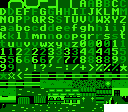
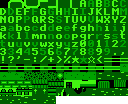
Exact Odyssey: one stagger panel (top left, the last target), HP bars under enemies, juggling (Strike hits launch a staggered enemy upside down, from flipped tiles in a per-enemy CHR bank), full heal after battle

diff --git a/games/exact-odyssey/gpu/src/art.rs b/games/exact-odyssey/gpu/src/art.rs
@@ -740,17 +740,19 @@ const EDGE_LEFT: &str = "
 
 /// Everything the picture processor needs, built from the art above.
 pub struct Art {
-    /// Background CHR banks: the field's, and the battle's. Each starts with
-    /// the same window tiles, so text indices match in both; the battle bank
-    /// swaps the field's terrain for big enemies, as NES RPGs swapped banks.
+    /// Background CHR banks: the field's, and one per enemy type for battles.
+    /// Each starts with the same window tiles (and battle banks the same cave
+    /// rock), so their indices match; a battle bank then holds its enemy and
+    /// an upside-down copy for juggling, as NES RPGs swapped banks per fight.
     pub bg: PatternTable,
-    pub bg_battle: PatternTable,
+    pub battle_banks: HashMap<&'static str, PatternTable>,
     pub spr: PatternTable,
     /// Background metatiles by map character (field bank, and the cave rock
     /// in the battle bank).
     pub metatiles: HashMap<char, Metatile>,
-    /// Enemies (battle bank): (width, height) in tiles and their tiles.
-    pub enemies: HashMap<&'static str, (usize, usize, Vec<u8>)>,
+    /// Enemies (each in its own bank): size in tiles, their tiles row by
+    /// row, and the upside-down tiles (each tile flipped, rows reversed).
+    pub enemies: HashMap<&'static str, Enemy>,
     pub sprites: HashMap<&'static str, Metasprite>,
     pub ui: Ui,
     /// Animated metatiles: frames by map character, swapped like CHR banks.
@@ -759,14 +761,19 @@ pub struct Art {
     pub digits: HashMap<char, u8>,
 }
 
+pub struct Enemy {
+    pub w: usize,
+    pub h: usize,
+    pub tiles: Vec<u8>,
+    pub flipped: Vec<u8>,
+}
+
 /// Window and label tiles, at the same index in every background bank.
 pub struct Ui {
     /// Glyphs on window blue: white, and yellow for the characters yellow text uses.
     pub glyphs: HashMap<char, u8>,
     pub yellow: HashMap<char, u8>,
-    /// Glyphs and gauges on the black backdrop, for labels under enemies.
-    pub clear: HashMap<char, u8>,
-    pub clear_yellow: HashMap<char, u8>,
+    /// Gauges on the black backdrop, for HP bars under enemies.
     pub clear_bars: [u8; 9],
     pub border: Border,
     /// ATB gauge tiles on window blue, 0–8 pixels filled.
@@ -844,17 +851,11 @@ fn ui(bg: &mut PatternTable) -> Ui {
     };
     let mut glyphs = HashMap::new();
     let mut yellow = HashMap::new();
-    let mut clear = HashMap::new();
-    let mut clear_yellow = HashMap::new();
-    let yellow_chars: Vec<char> = "StrikeBlastMendGuardHoundDroneVictoryAttackSlashFireIceCureHealProvokeSteelPotion*0123456789".chars().collect();
+    let yellow_chars: Vec<char> = "StrikeBlastMendGuardHoundDroneVictoryAttackSlashFireIceCureHealProvokeSteelPotion*%0123456789".chars().collect();
     for (ch, rows) in FONT {
         glyphs.insert(*ch, bg.add(glyph_tile(rows, 3, 1)));
         if yellow_chars.contains(ch) {
             yellow.insert(*ch, bg.add(glyph_tile(rows, 2, 1)));
-        }
-        if ch.is_ascii_digit() || *ch == '%' || *ch == ' ' {
-            clear.insert(*ch, bg.add(glyph_tile(rows, 3, 0)));
-            clear_yellow.insert(*ch, bg.add(glyph_tile(rows, 2, 0)));
         }
     }
     let gauge = |n: usize, empty: u8| -> Tile {
@@ -874,17 +875,13 @@ fn ui(bg: &mut PatternTable) -> Ui {
         bars[n] = bg.add(gauge(n, 1));
         clear_bars[n] = bg.add(gauge(n, 0));
     }
-    Ui { glyphs, yellow, clear, clear_yellow, clear_bars, border, bars }
+    Ui { glyphs, yellow, clear_bars, border, bars }
 }
 
 pub fn build() -> Art {
     let mut bg = PatternTable::default();
-    let mut bg_battle = PatternTable::default();
     let mut spr = PatternTable::default();
     let ui_tiles = ui(&mut bg);
-    let battle_ui = ui(&mut bg_battle);
-    assert_eq!(battle_ui.border.fill, ui_tiles.border.fill, "both banks share the window tiles");
-    assert_eq!(battle_ui.clear_bars, ui_tiles.clear_bars);
 
     let mut metatiles = HashMap::new();
     for (ch, art, pal) in [
@@ -904,16 +901,33 @@ pub fn build() -> Art {
     ] {
         metatiles.insert(ch, metatile(&mut bg, art, pal));
     }
-    for (ch, art, pal) in [('k', ROCK, 0), ('K', SHARD, 0)] {
-        metatiles.insert(ch, metatile(&mut bg_battle, art, pal));
-    }
 
-    // Enemies: 64×64, the 32×32 art doubled with Scale2x.
+    // A battle bank per enemy type: the window tiles, the cave rock, then the
+    // enemy (64×64, its 32×32 art doubled with Scale2x) and upside down.
+    let mut battle_banks = HashMap::new();
     let mut enemies = HashMap::new();
     for (name, art) in [("drone", DRONE), ("hound", HOUND)] {
+        let mut bank = PatternTable::default();
+        let bank_ui = ui(&mut bank);
+        assert_eq!(bank_ui.border.fill, ui_tiles.border.fill, "every bank shares the window tiles");
+        assert_eq!(bank_ui.clear_bars, ui_tiles.clear_bars);
+        for (ch, rock, pal) in [('k', ROCK, 0), ('K', SHARD, 0)] {
+            let m = metatile(&mut bank, rock, pal);
+            if let Some(prev) = metatiles.get(&ch) {
+                assert_eq!(prev.tiles, m.tiles, "every battle bank has the rock at the same place");
+            }
+            metatiles.insert(ch, m);
+        }
         let (w, h, tiles) = parse_art(&scale2x(art));
-        let ids = tiles.into_iter().map(|t| bg_battle.add(t)).collect();
-        enemies.insert(name, (w, h, ids));
+        let ids: Vec<u8> = tiles.iter().map(|t| bank.add(*t)).collect();
+        let mut flipped = Vec::with_capacity(ids.len());
+        for row in (0..h).rev() {
+            for col in 0..w {
+                flipped.push(bank.add(tiles[row * w + col].flipped()));
+            }
+        }
+        enemies.insert(name, Enemy { w, h, tiles: ids, flipped });
+        battle_banks.insert(name, bank);
     }
 
     let mut sprites = HashMap::new();
@@ -958,7 +972,7 @@ pub fn build() -> Art {
         .collect();
     frames.insert('~', water_frames);
 
-    Art { bg, bg_battle, spr, metatiles, enemies, sprites, ui: ui_tiles, frames, digits }
+    Art { bg, battle_banks, spr, metatiles, enemies, sprites, ui: ui_tiles, frames, digits }
 }
 
 // ── Maps ──
@@ -1003,7 +1017,9 @@ mod tests {
     fn the_art_fits_the_tables() {
         let art = build();
         assert!(art.bg.tiles.len() <= 256, "bg tiles: {}", art.bg.tiles.len());
-        assert!(art.bg_battle.tiles.len() <= 256, "battle bg tiles: {}", art.bg_battle.tiles.len());
+        for (name, bank) in &art.battle_banks {
+            assert!(bank.tiles.len() <= 256, "{name} bank: {}", bank.tiles.len());
+        }
         assert!(art.spr.tiles.len() <= 256, "sprite tiles: {}", art.spr.tiles.len());
         for row in FIELD_MAP {
             assert_eq!(row.chars().count(), 32, "{row}");
@@ -1011,6 +1027,10 @@ mod tests {
                 assert!(art.metatiles.contains_key(&ch), "no metatile `{ch}`");
             }
         }
-        println!("field bank {} tiles, battle bank {} tiles, sprites {} tiles", art.bg.tiles.len(), art.bg_battle.tiles.len(), art.spr.tiles.len());
+        for (name, bank) in &art.battle_banks {
+            println!("{name} bank {} tiles", bank.tiles.len());
+        }
+        println!("field bank {} tiles, sprites {} tiles", art.bg.tiles.len(), art.spr.tiles.len());
     }
 }
+

diff --git a/games/exact-odyssey/gpu/src/lib.rs b/games/exact-odyssey/gpu/src/lib.rs
@@ -12,10 +12,11 @@
 //! 5. windows: `x,y,w,h[,spacing]|line|line` joined by `^`, in tiles; a
 //!    spacing of 2 puts a blank row between lines. In lines, `~` and a digit
 //!    0–8 is a gauge tile filled that many pixels (ATB and stagger gauges),
-//!    and text inside `{` `}` is yellow. An entry `@x,y|text` is a label with
-//!    no window, on the backdrop (digits, `%`, gauges): stagger bars.
-//! 6. enemies: `name:tx:ty:fx` joined by `;`. fx 0 is normal, 1 a hit flash,
-//!    2–5 a defeat dissolving top-down, a tile row a step.
+//!    and text inside `{` `}` is yellow. An entry `@x,y|~n~n…` is a gauge
+//!    with no window, on the backdrop: the HP bars under enemies.
+//! 6. enemies: `name:tx:ty:fx` joined by `;`, all one type (a battle uses
+//!    that type's CHR bank). fx 0 is normal, 1 a hit flash, 2–5 a defeat
+//!    dissolving top-down, a tile row a step, 7 juggled: upside down, 16 px up.
 //! 7. fade: 0 (full colour) to 4 (black), the NES palette fade.
 
 pub mod art;
@@ -47,6 +48,8 @@ fn art() -> &'static Art {
 #[derive(Default)]
 struct Spec {
     battle: bool,
+    /// The battle's CHR bank: its enemy type.
+    bank: String,
     scroll_x: i32,
     scroll_y: i32,
     sprites: String,
@@ -100,16 +103,12 @@ fn parse_windows(spec: &str) -> Vec<Option<Cell>> {
             let at: Vec<i32> = parts.next().unwrap_or("").split(',').filter_map(|v| v.trim().parse().ok()).collect();
             let [x, y] = at[..] else { continue };
             let mut chars = parts.next().unwrap_or("").chars();
-            let (mut col, mut gold) = (0, false);
+            let mut col = 0;
             while let Some(ch) = chars.next() {
-                if ch == '{' || ch == '}' {
-                    gold = ch == '{';
-                    continue;
-                }
                 let tile = if ch == '~' {
                     ui.clear_bars[chars.next().and_then(|d| d.to_digit(10)).unwrap_or(0).min(8) as usize]
                 } else {
-                    *(if gold { &ui.clear_yellow } else { &ui.clear }).get(&ch).unwrap_or(&0)
+                    0
                 };
                 put(x + col, y, tile);
                 col += 1;
@@ -190,16 +189,21 @@ fn parse_stage(spec: &str) -> Vec<Option<Cell>> {
         let f: Vec<&str> = item.split(':').collect();
         let [name, tx, ty, fx] = f[..] else { continue };
         let (Ok(tx), Ok(ty), Ok(fx)) = (tx.parse::<usize>(), ty.parse::<usize>(), fx.parse::<usize>()) else { continue };
-        let Some((w, h, tiles)) = art.enemies.get(name) else { continue };
+        let Some(e) = art.enemies.get(name) else { continue };
+        let (w, h) = (e.w, e.h);
         let palette = match (fx, name) {
             (1, _) => WINDOW_PALETTE,
             (_, "drone") => 1,
             _ => 3,
         };
+        // Juggled: the upside-down tiles, two rows higher (still on the
+        // attribute grid).
+        let juggled = fx == 7;
+        let (tiles, ty) = if juggled { (&e.flipped, ty.saturating_sub(2)) } else { (&e.tiles, ty) };
         // Defeated: the enemy's rows clear away from the top, one a step.
-        let gone = if fx >= 2 { (fx - 1) * h / 4 } else { 0 };
-        for y in gone..*h {
-            for x in 0..*w {
+        let gone = if (2..=5).contains(&fx) { (fx - 1) * h / 4 } else { 0 };
+        for y in gone..h {
+            for x in 0..w {
                 let (cx, cy) = (tx + x, ty + y);
                 if cx < COLS && cy < ROWS {
                     cells[cy * COLS + cx] = Some(Cell { tile: tiles[y * w + x], palette });
@@ -242,7 +246,7 @@ fn draw(spec: &Spec, frame: u64, rgba: &mut [u8]) {
     let mut sprites = Vec::new();
     parse_sprites(&spec.sprites, frame, &mut sprites);
     let out = render(&Scene {
-        bg_table: if spec.battle { &art.bg_battle } else { &art.bg },
+        bg_table: if spec.battle { art.battle_banks.get(spec.bank.as_str()).unwrap_or(&art.battle_banks["drone"]) } else { &art.bg },
         spr_table: &art.spr,
         palettes,
         background: if spec.battle { &stage } else { &field },
@@ -260,7 +264,10 @@ pub fn write_sheets(dir: &std::path::Path) -> std::io::Result<()> {
     let art = art();
     std::fs::create_dir_all(dir)?;
     std::fs::write(dir.join("bg-field.png"), nes_ppu::png::sheet(&art.bg, FIELD.bg[0], false))?;
-    std::fs::write(dir.join("bg-battle.png"), nes_ppu::png::sheet(&art.bg_battle, BATTLE.bg[3], false))?;
+    for (name, bank) in &art.battle_banks {
+        let pal = if *name == "drone" { BATTLE.bg[1] } else { BATTLE.bg[3] };
+        std::fs::write(dir.join(format!("bg-battle-{name}.png")), nes_ppu::png::sheet(bank, pal, false))?;
+    }
     for (i, pal) in art::SPRITES.iter().enumerate() {
         std::fs::write(dir.join(format!("sprites-{i}.png")), nes_ppu::png::sheet(&art.spr, *pal, true))?;
     }
@@ -300,13 +307,16 @@ impl Surface for PpuSurface {
             return Err(SurfaceError(format!("ppu: expected {INPUTS} inputs, got {}", inputs.len())));
         };
         let battle = text(scene, "scene")? == "battle";
+        let enemy_spec = text(enemies, "enemies")?;
+        let bank = enemy_spec.split(':').next().unwrap_or("drone").to_string();
         self.spec = Spec {
             battle,
             scroll_x: number(sx, "scroll x")?.round() as i32,
             scroll_y: number(sy, "scroll y")?.round() as i32,
             sprites: text(sprites, "sprites")?,
             overlay: parse_windows(&text(windows, "windows")?),
-            stage: if battle { parse_stage(&text(enemies, "enemies")?) } else { vec![None; COLS * ROWS] },
+            stage: if battle { parse_stage(&enemy_spec) } else { vec![None; COLS * ROWS] },
+            bank,
             fade: number(fade, "fade")?.clamp(0.0, 4.0) as u8,
         };
         Ok(())
@@ -453,7 +463,7 @@ mod tests {
         field.sprites = "down*:120:96;villager*:160:64".into();
         draw(&field, 0, &mut rgba);
         std::fs::write(dir.join("frame-field.png"), nes_ppu::png::encode(256, 240, &rgba)).unwrap();
-        let mut battle = Spec { battle: true, stage: parse_stage("drone:2:8:0;hound:12:8:0"), overlay: parse_windows("0,20,10,10|Drone|~8~3~0~0 131||{Hound}|~8~8~6~0 {205}^10,20,9,10,2|Fire|Ice|Flee|<Stance^19,20,13,10|Assault|Rook 120~8~8~8|  {Blast}|Ivy  100~4~0~0|  {Blast}|Kai   90~8~8~2|  {Blast}^@2,16|~8~8~3~0~0 131^@12,16|~8~8~8~6~0{205}"), ..Default::default() };
+        let mut battle = Spec { battle: true, bank: "hound".into(), stage: parse_stage("hound:2:8:0;hound:12:8:7"), overlay: parse_windows("0,20,10,10|Drone|~8~3~0~0 131||{Hound}|~8~8~6~0 {205}^10,20,9,10,2|Fire|Ice|Flee|<Stance^19,20,13,10|Assault|Rook 120~8~8~8|  {Blast}|Ivy  100~4~0~0|  {Blast}|Kai   90~8~8~2|  {Blast}^@2,16|~8~8~8~8~8~3~0~0^@12,16|~8~8~4~0~0~0~0~0^0,0,14,4|{Hound}  212%|~8~8~8~8~8~8~8~4~0~0~0~0"), ..Default::default() };
         battle.sprites = "idle:200:56;idle:208:88:1;strike:184:120:2;hand:66:168".into();
         draw(&battle, 0, &mut rgba);
         std::fs::write(dir.join("frame-battle.png"), nes_ppu::png::encode(256, 240, &rgba)).unwrap();

diff --git a/README.md b/README.md
@@ -114,9 +114,11 @@ slots by his role; Space commits them. Escape takes back a slot. **Item** commit
 heals the whole party. Ivy and Kai fill theirs by role (shown in yellow) and act. Press **Left**
 for the stance menu, free at any time: **Assault** (all Blast), **Rush** (Strike, Strike,
 Blast), **Balance** and **Bulwark**. Only Strike attacks; Blast's Fire and Ice build an enemy's
-chain fast, and it drains over time, slower just after a Strike hit. Fill the stagger bar under
-an enemy and it is staggered, taking far more damage. A win shows your time and a 1–5 star rank;
-five stars finds a Potion.
+chain fast, and it drains over time, slower just after a Strike hit. The stagger panel at the top
+left follows the enemy you last targeted: its chain and a bar to its stagger point. Staggered, an
+enemy takes far more damage, and Strike hits launch it: upside down in the air, it can't act.
+Each enemy's HP shows as a bar beneath it. A win shows your time and a 1–5 star rank (five stars
+finds a Potion), and the party is healed in full after every fight.
 
 The picture comes from [`engines/nes-ppu`](engines/nes-ppu). To write the game's pattern tables
 as PNG sprite sheets and two sample frames to `games/exact-odyssey/assets/sheets/`:
